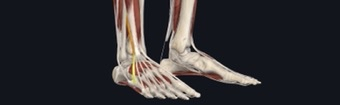
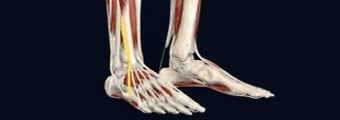
Training log update

Changed region(s): [[0.2941, 0.0, 0.8235, 0.9714]]

diff --git a/content/traininglog/20210110-ironman2021-33weeksout.md b/content/traininglog/20210110-ironman2021-33weeksout.md
@@ -62,13 +62,18 @@ Total Time: **105 minutes**
 With a weather system forecast for this evening, I did the scheduled run first.  I had a tiny, posterior tendon near my right ankle that was angry for the first 20ish minutes of the run; it finally got the message that I wasn't stopping and calmed down.  Apart from that, the run felt **really good**; a bit of drizzle but no bad weather (yet).
 
 ### FIBULARIS TERTIUS
-![Fibularis Tertius](/assets/jpg/ankle-20210112.jpeg)
+![Fibularis Tertius](/assets/jpg/ankle-20210112.jpeg?v2)
 <!---->
 The ride on the trainer was very easy spinning that started at around 90 RPM and progressively became faster over the course of the hour.  I watched the full reply of the _2020 Arzachena ITU Triathlon World Cup_ (Men's Race).
 
-All in all, a really good _"Bread and Butter"_ kind of training day.
+### CADENCE GRAPH WHILE WATCHING
+![Cadendes](/assets/jpg/cadence-20210112.jpeg)
 
+Effort on the bike was light and easy; basically one gear and letting my legs spin for an hour.  I was still getting sweaty without the fan going.
 
+All in all, a really good _"Bread and Butter"_ kind of training day (and a good day at work).
+
+One thing I am a bit peeved at is the timing of booking swimming.  Two days in a row I have been shut out from getting a spot at Esquimalt.
 
 <!---->
 ## WEDNESDAY JAN 13
